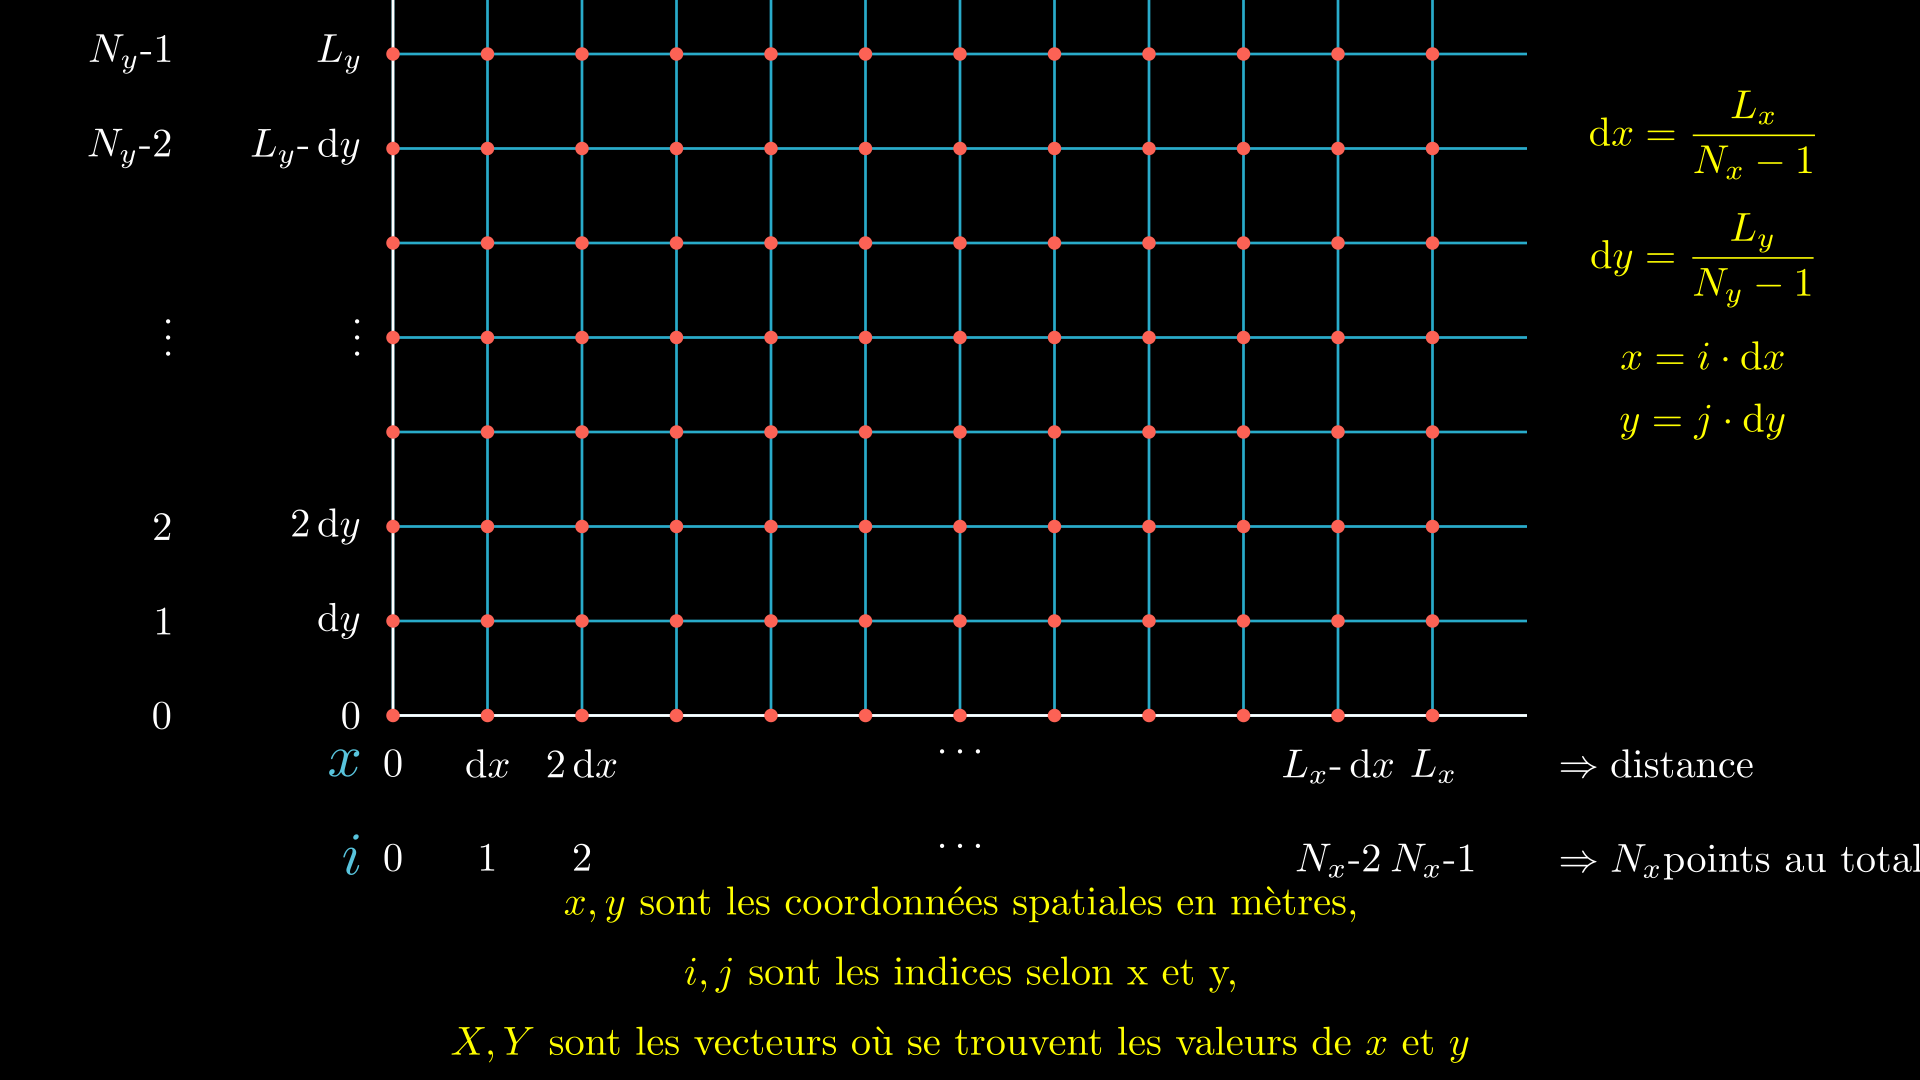
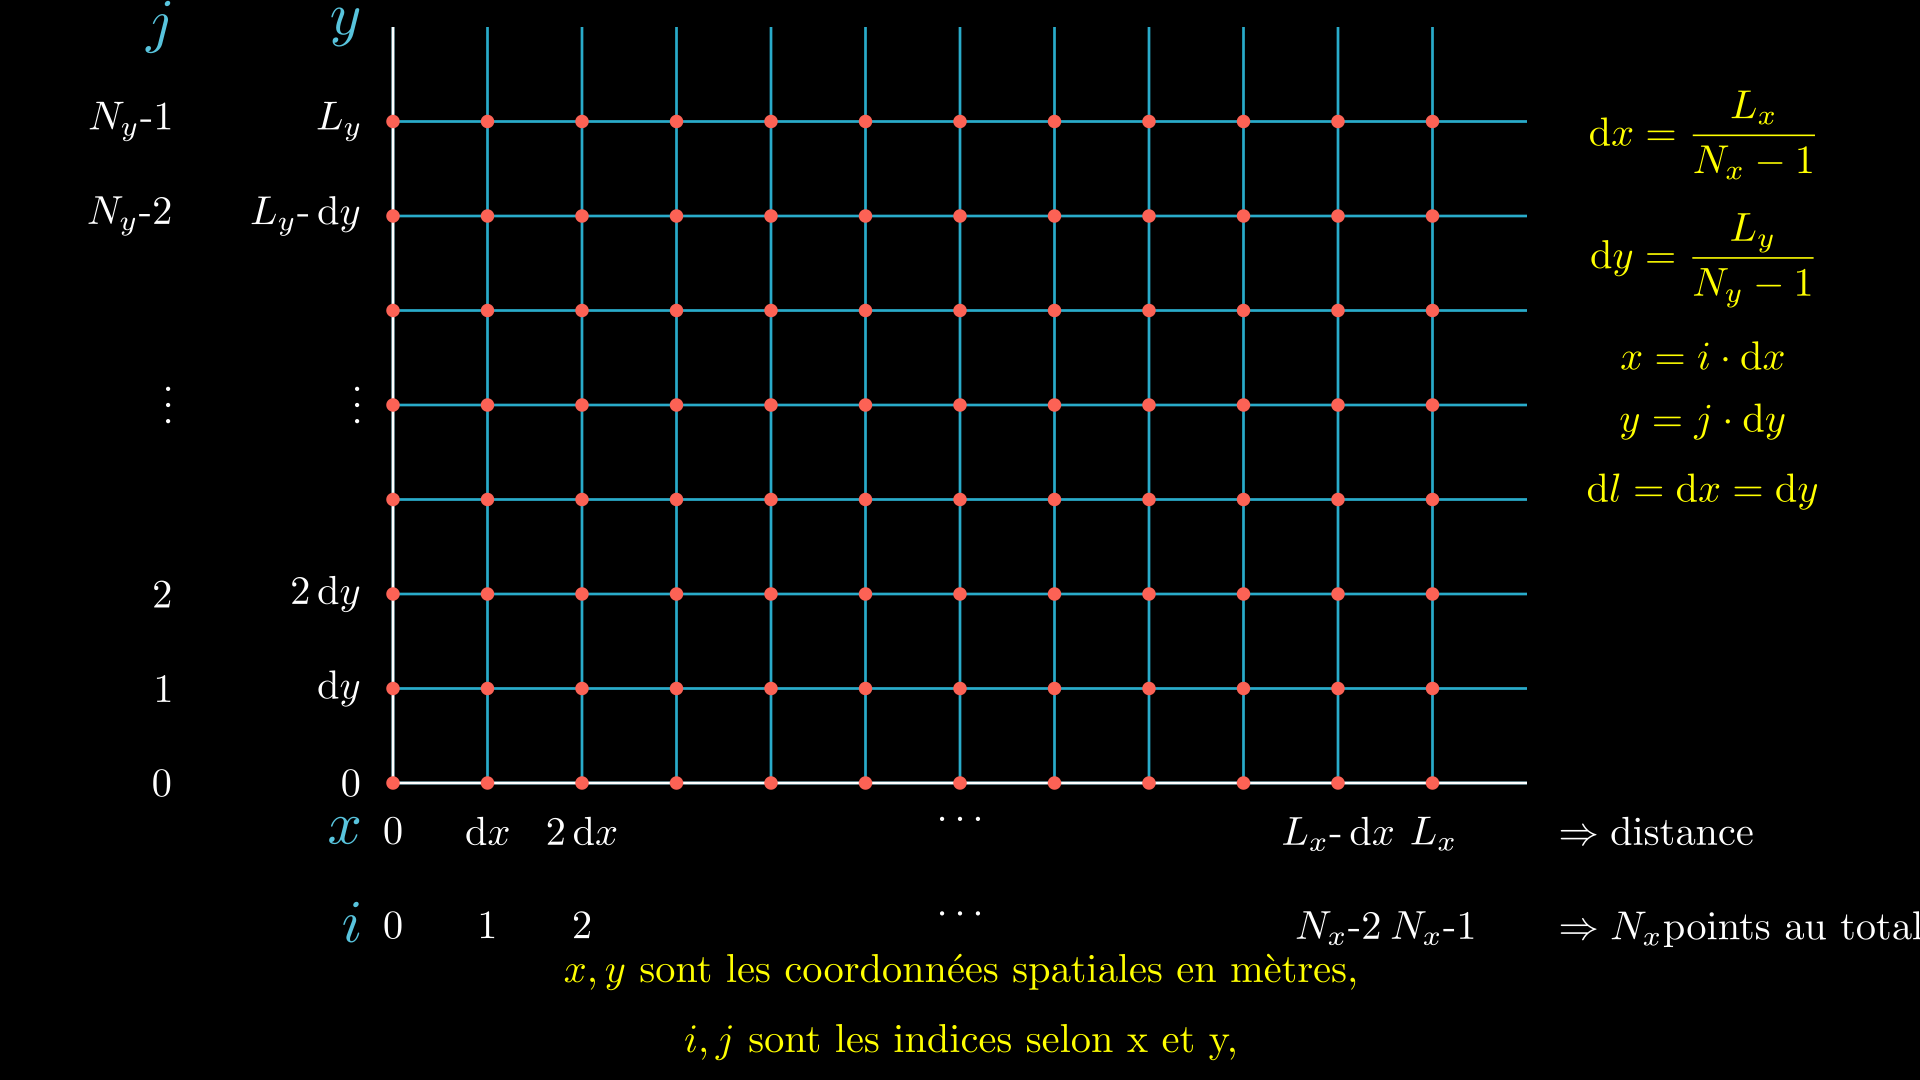
开心

diff --git a/Convention et Variables/scene.py b/Convention et Variables/scene.py
@@ -7,6 +7,7 @@ dx, dy = X[1] - X[0], Y[1] - Y[0]
 
 latex_dx = r"\mathop{\mathrm{d}x}"
 latex_dy = r"\mathop{\mathrm{d}y}"
+latex_dl = r"\mathop{\mathrm{d}l}"
 
 
 class GridConfigure(Scene):
@@ -34,7 +35,7 @@ class GridConfigure(Scene):
             # }
         )
         self.grid.scale(0.7)
-        self.grid.move_to(UP * 1.5)
+        self.grid.move_to(UP * 1)
         self.play(Create(self.grid))
 
         for i in range(Nx):
@@ -187,14 +188,9 @@ class GridConfigure(Scene):
     def draw_phrase(self):
         phrase1 = Tex(r"$x,y$ sont les coordonnées spatiales en mètres,", color=YELLOW)
         phrase2 = Tex(r"$i,j$ sont les indices selon x et y,", color=YELLOW)
-        phrase3 = Tex(
-            r"$X,Y$ sont les vecteurs où se trouvent les valeurs de $x$ et $y$",
-            color=YELLOW,
-        )
         self.play(
-            Write(phrase1.scale(self.scale_text).move_to(2.7 * DOWN)),
+            Write(phrase1.scale(self.scale_text).move_to(3.2 * DOWN)),
             Write(phrase2.scale(self.scale_text).next_to(phrase1, DOWN)),
-            Write(phrase3.scale(self.scale_text).next_to(phrase2, DOWN)),
             run_time=self.runtime_text,
         )
 
@@ -206,12 +202,11 @@ class GridConfigure(Scene):
                 latex_dy + r"=\frac{L_y}{N_y-1}",
                 r"x=i\cdot" + latex_dx,
                 r"y=j\cdot" + latex_dy,
+                latex_dl+'='+latex_dx+'='+latex_dy
             ]
         ]
         self.play(
             Write(formulas[0].scale(self.scale_text).move_to(UP*3+RIGHT*5.5)),
-            Write(formulas[1].scale(self.scale_text).next_to(formulas[0], DOWN)),
-            Write(formulas[2].scale(self.scale_text).next_to(formulas[1], DOWN)),
-            Write(formulas[3].scale(self.scale_text).next_to(formulas[2], DOWN)),
+            *[ Write(formulas[i].scale(self.scale_text).next_to(formulas[i-1], DOWN)) for i in range(1,len(formulas))],
             run_time=self.runtime_text,
         )

diff --git a/paramètres.py b/paramètres.py
@@ -18,8 +18,8 @@ X, Y = [grid.T for grid in np.meshgrid(np.linspace(0, Lx, Nx), np.linspace(0, Ly
 
 # Paramètres de simulation
 c = 1.5  # Vitesse de propagation des ondes dans le milieu (m/s)
-T = 3  # Temps final de simulation (s)
-Nt = 751  # Nombre d'itérations
+T = 4  # Temps final de simulation (s)
+Nt = 1001  # Nombre d'itérations
 dt = T / (Nt - 1)  # Pas de temps (s)
 α_max = 5000  # Coefficient d'amortissement
 L_absorb = 1
@@ -28,7 +28,7 @@ N_absorb = int(L_absorb / dl)  # Nombre de points absorbants aux bords
 # Chaîne de caractères pour le nom du fichier
 para_string = f"c={c}, T={T}, Nt={Nt}, N_point={N_point}, Lx={Lx}, Ly={Ly}, α={α_max}, n_absorb={N_absorb}"
 
-#para de capteur
+# para de capteur
 width = 0.001
 a, b = 2, 1.5
 coeur_size = 0.8
@@ -38,6 +38,12 @@ coeur = (coeur_fun <= coeur_size + width) & (coeur_fun >= coeur_size - width)
 # print(coeur[56,158])
 # print(np.argwhere(coeur))
 
-#para de source
-x_source,y_source=1.8,2
-i_source,j_source=int(x_source/dl),int(y_source/dl)
+# para de source
+source_coordonnées = np.array(
+    [
+        [1.8, 2],
+        [1, 1],
+        [3, 2.5],
+    ]
+)
+source_indices = np.rint(source_coordonnées / dl).astype(int)

diff --git a/wave_emu.py b/wave_emu.py
@@ -53,7 +53,8 @@ for n in range(Nt):
         )
 
     if n * dt <= 2 * pi / 70:
-        u[n, i_source, j_source] = np.sin(70 * n * dt)
+        for i_source, j_source in source_indices:
+            u[n, i_source, j_source] = np.sin(70 * n * dt)
 
     if n * dt >= 1.5:
         u[n] = np.where(coeur, u[2 * int(1.5 / dt) - n], u[n])

diff --git a/Convention et Variables/media/Tex/c34ad3f09b424627.tex b/Convention et Variables/media/Tex/c34ad3f09b424627.tex
@@ -1,0 +1,13 @@
+\documentclass[preview]{standalone}
+
+\usepackage[english]{babel}
+\usepackage{amsmath}
+\usepackage{amssymb}
+
+\begin{document}
+
+\begin{align*}
+\mathop{\mathrm{d}l}=\mathop{\mathrm{d}x}=\mathop{\mathrm{d}y}
+\end{align*}
+
+\end{document}
